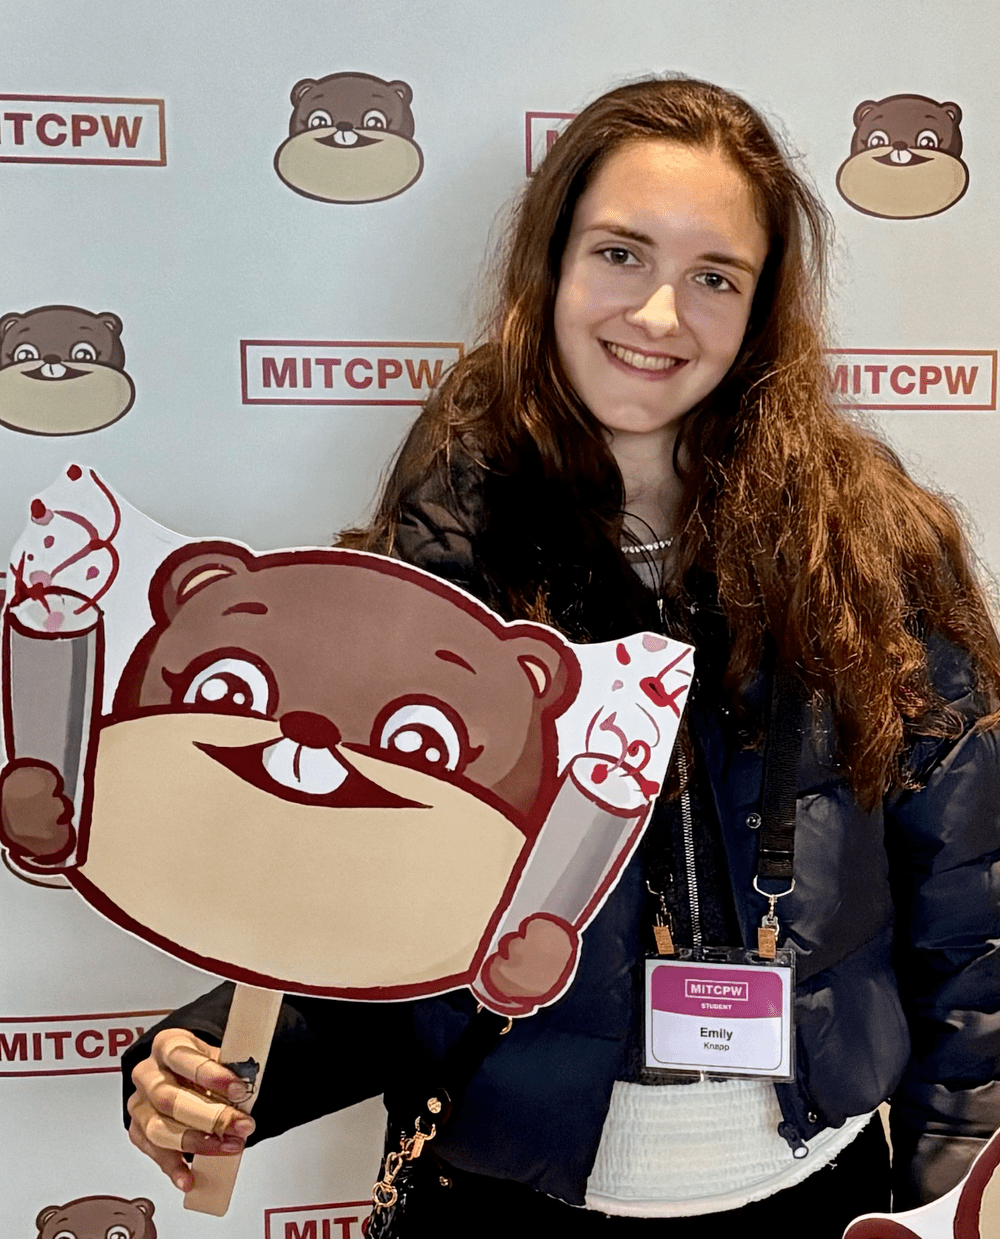
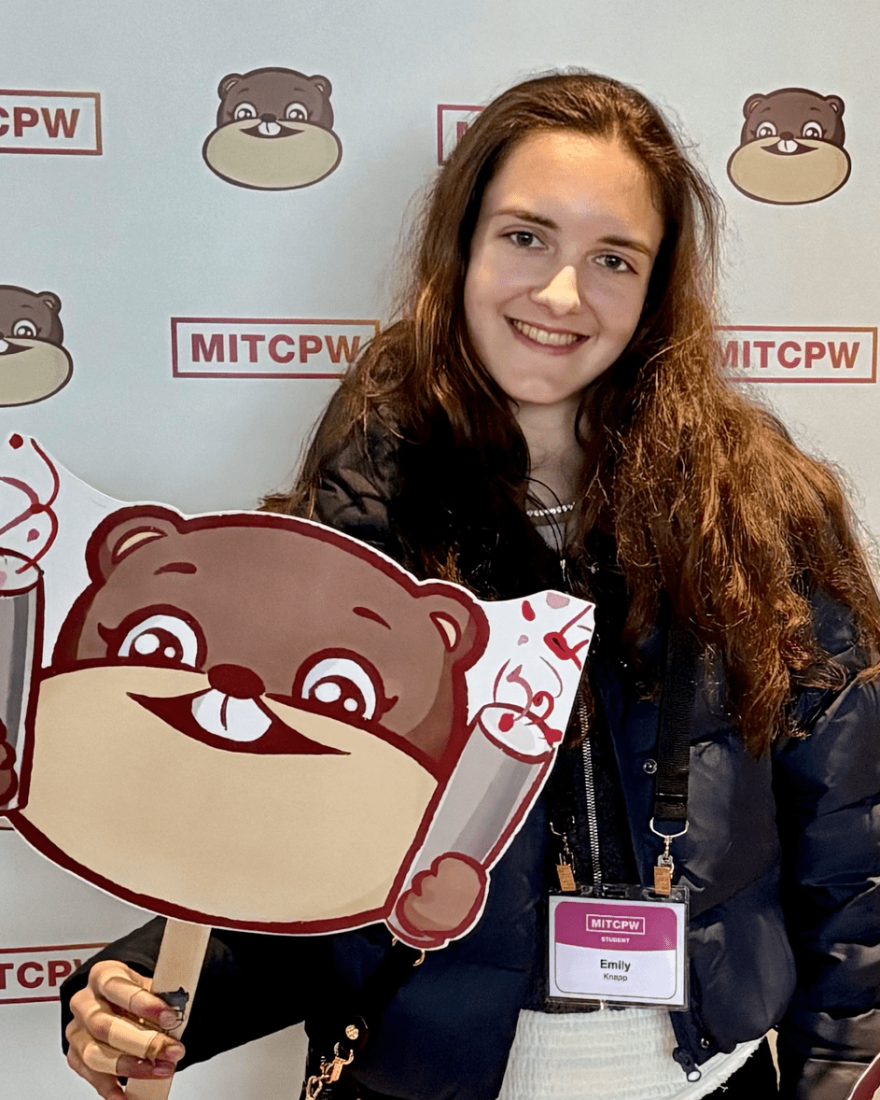
Centre every mentor photo on one portrait card shape
Each photo carried its own crop ratio from Squarespace (107% to 145% tall),
so cards were different heights and subjects sat at different spots. Detect
the face in each photo, crop around it to a consistent head-and-shoulders
4:5 frame, and give every card the same shape.

diff --git a/mentors.html b/mentors.html
@@ -75,41 +75,41 @@
 </div>
 <div class="row">
 <div class="col" style="--w:33.33%">
-<div class="block"><figure class="image-block layout-hover" style="max-width:750px"><div class="img-frame" style="aspect-ratio:100/144.595"><img alt="" height="1344" loading="lazy" src="assets/img/mentors/bio-pic-kevin-santiago.jpg" style="object-position:50% 50%" width="750"/></div><figcaption class="caption-hover"><p>Hi!! My name is Kevin, and I'm a junior from southeastern Massachusetts majoring in Computer Science. In my free time I enjoy swimming, coding, watching movies (especially Marvel), and watching soccer. I also love traveling to new countries, and enjoy the beach.</p></figcaption></figure></div>
+<div class="block"><figure class="image-block layout-hover"><div class="img-frame" style="aspect-ratio:100/125"><img alt="" height="938" loading="lazy" src="assets/img/mentors/bio-pic-kevin-santiago.jpg" style="object-position:50% 50%" width="750"/></div><figcaption class="caption-hover"><p>Hi!! My name is Kevin, and I'm a junior from southeastern Massachusetts majoring in Computer Science. In my free time I enjoy swimming, coding, watching movies (especially Marvel), and watching soccer. I also love traveling to new countries, and enjoy the beach.</p></figcaption></figure></div>
 <div class="block html-block">
 <h3 class="text-center">Kevin Santiago</h3>
 <p class="text-center">Executive Director</p>
 </div>
-<div class="block"><figure class="image-block layout-hover"><div class="img-frame" style="aspect-ratio:100/131.757"><img alt="" height="6000" loading="lazy" src="assets/img/mentors/dsc02087-lucy-teng.jpg" style="object-position:50% 50%" width="4000"/></div><figcaption class="caption-hover"><p>Hello! I’m Lucy, a freshman from Louisville, KY wanting to study biology at MIT. I am a swimming and academic mentor for Amphibz. Outside of Amphibz, I love to swim, run, hike, and bake!</p></figcaption></figure></div>
+<div class="block"><figure class="image-block layout-hover"><div class="img-frame" style="aspect-ratio:100/125"><img alt="" height="1031" loading="lazy" src="assets/img/mentors/dsc02087-lucy-teng.jpg" style="object-position:50% 50%" width="825"/></div><figcaption class="caption-hover"><p>Hello! I’m Lucy, a freshman from Louisville, KY wanting to study biology at MIT. I am a swimming and academic mentor for Amphibz. Outside of Amphibz, I love to swim, run, hike, and bake!</p></figcaption></figure></div>
 <div class="block html-block">
 <h3 class="text-center">LUCY TENG</h3>
 <p class="text-center">Achiever Relations Director</p>
 </div>
-<div class="block"><figure class="image-block layout-hover" style="max-width:974px"><div class="img-frame" style="aspect-ratio:100/127.365"><img alt="" height="1146" loading="lazy" src="assets/img/mentors/screenshot-2024-10-13-at-2-24-30-am.png" style="object-position:50% 50%" width="974"/></div><figcaption class="caption-hover"><p>Hello! My name is Cindy and I'm a sophomore majoring in EE. I'm from San Antonio, Texas, and I'm really looking forward to being a part of Amphibz. In my free time, I enjoy papercrafting, playing badminton, and browsing eBay.</p></figcaption></figure></div>
+<div class="block"><figure class="image-block layout-hover"><div class="img-frame" style="aspect-ratio:100/125"><img alt="" height="746" loading="lazy" src="assets/img/mentors/screenshot-2024-10-13-at-2-24-30-am.png" style="object-position:50% 50%" width="597"/></div><figcaption class="caption-hover"><p>Hello! My name is Cindy and I'm a sophomore majoring in EE. I'm from San Antonio, Texas, and I'm really looking forward to being a part of Amphibz. In my free time, I enjoy papercrafting, playing badminton, and browsing eBay.</p></figcaption></figure></div>
 <div class="block html-block">
 <h3 class="text-center">Cindy Li</h3>
 <p class="text-center">External Relations Director</p>
 </div>
 </div>
 <div class="col" style="--w:33.33%">
-<div class="block"><figure class="image-block layout-hover" style="max-width:835px"><div class="img-frame" style="aspect-ratio:100/143.581"><img alt="" height="1809" loading="lazy" src="assets/img/mentors/jay.jpg" style="object-position:50% 50%" width="835"/></div><figcaption class="caption-hover"><p>Hello there! My name is Jay Bhan, and I'm a junior at MIT from the Bay Area in California. I'm thinking of majoring in 6-4 and 18. Outside of classes, I enjoy chatting with friends, trying new foods, playing games (Codenames, anyone?), and watching movies!</p></figcaption></figure></div>
+<div class="block"><figure class="image-block layout-hover"><div class="img-frame" style="aspect-ratio:100/125"><img alt="" height="1044" loading="lazy" src="assets/img/mentors/jay.jpg" style="object-position:50% 50%" width="835"/></div><figcaption class="caption-hover"><p>Hello there! My name is Jay Bhan, and I'm a junior at MIT from the Bay Area in California. I'm thinking of majoring in 6-4 and 18. Outside of classes, I enjoy chatting with friends, trying new foods, playing games (Codenames, anyone?), and watching movies!</p></figcaption></figure></div>
 <div class="block html-block">
 <h3 class="text-center">Jay Bhan</h3>
 <p class="text-center">Executive Director</p>
 </div>
-<div class="block"><figure class="image-block layout-hover"><div class="img-frame" style="aspect-ratio:100/133.333"><img alt="" height="1000" loading="lazy" src="assets/img/mentors/alvan-liu.jpg" style="object-position:50% 50%" width="750"/></div><figcaption class="caption-hover"><p>Hey! I am Alvan a current Sophomore from Texas studying Chemical Biological Engineering (10B). Outside of Amphibz, I play tennis, make rugs, and also help run dynaMIT and the Edgerton Student Makerspace.</p></figcaption></figure></div>
+<div class="block"><figure class="image-block layout-hover"><div class="img-frame" style="aspect-ratio:100/125"><img alt="" height="938" loading="lazy" src="assets/img/mentors/alvan-liu.jpg" style="object-position:50% 50%" width="750"/></div><figcaption class="caption-hover"><p>Hey! I am Alvan a current Sophomore from Texas studying Chemical Biological Engineering (10B). Outside of Amphibz, I play tennis, make rugs, and also help run dynaMIT and the Edgerton Student Makerspace.</p></figcaption></figure></div>
 <div class="block html-block">
 <h3 class="text-center">Alvan Liu</h3>
 <p class="text-center">Session Planning Director</p>
 </div>
 </div>
 <div class="col" style="--w:33.33%">
-<div class="block"><figure class="image-block layout-hover"><div class="img-frame" style="aspect-ratio:100/128.378"><img alt="" height="1535" loading="lazy" src="assets/img/mentors/michael-turmilov-michael-turmilov.jpg" style="object-position:50% 50%" width="1328"/></div><figcaption class="caption-hover"><p>Hello! My name is Michael Turmilov, and I am a sophomore from Dallas, TX. I am majoring in Course 7 (Biology) and am on the MIT Varsity Swim Team. Outside of Amphibious Achievement, I am involved in the Biology Undergraduate Student Association and enjoy sailing and snowboarding in my free time.</p></figcaption></figure></div>
+<div class="block"><figure class="image-block layout-hover"><div class="img-frame" style="aspect-ratio:100/125"><img alt="" height="548" loading="lazy" src="assets/img/mentors/michael-turmilov-michael-turmilov.jpg" style="object-position:50% 50%" width="438"/></div><figcaption class="caption-hover"><p>Hello! My name is Michael Turmilov, and I am a sophomore from Dallas, TX. I am majoring in Course 7 (Biology) and am on the MIT Varsity Swim Team. Outside of Amphibious Achievement, I am involved in the Biology Undergraduate Student Association and enjoy sailing and snowboarding in my free time.</p></figcaption></figure></div>
 <div class="block html-block">
 <h3 class="text-center">Michael Turmilov</h3>
 <p class="text-center">Director of Campus Relations</p>
 </div>
-<div class="block"><figure class="image-block layout-hover" style="max-width:473px"><div class="img-frame" style="aspect-ratio:100/133.108"><img alt="" height="841" loading="lazy" src="assets/img/mentors/headshot-laura-liu.jpg" style="object-position:50% 50%" width="473"/></div><figcaption class="caption-hover"><p>Hi, I'm Laura, a sophomore at MIT. I like all interesting topics! In my free time, I like folding origami (especially the modular kind), watching anime, or reading manga/hwas. I'm also a huge music-lover, and I play piano for MIT's video game orchestra!</p></figcaption></figure></div>
+<div class="block"><figure class="image-block layout-hover"><div class="img-frame" style="aspect-ratio:100/125"><img alt="" height="591" loading="lazy" src="assets/img/mentors/headshot-laura-liu.jpg" style="object-position:50% 50%" width="473"/></div><figcaption class="caption-hover"><p>Hi, I'm Laura, a sophomore at MIT. I like all interesting topics! In my free time, I like folding origami (especially the modular kind), watching anime, or reading manga/hwas. I'm also a huge music-lover, and I play piano for MIT's video game orchestra!</p></figcaption></figure></div>
 <div class="block html-block">
 <h3 class="text-center">laura liu</h3>
 <p class="text-center">Treasurer</p>
@@ -122,46 +122,46 @@
 </div>
 <div class="row">
 <div class="col" style="--w:33.33%">
-<div class="block"><figure class="image-block layout-hover" style="max-width:960px"><div class="img-frame" style="aspect-ratio:100/143.243"><img alt="" height="1280" loading="lazy" src="assets/img/mentors/img-6139-ella-roberson-large.jpg" style="object-position:50% 50%" width="960"/></div><figcaption class="caption-hover"><p>Hi! I'm Ella, a junior from Midland, MI majoring in Computation and Cognition (course 6-9). Outside of Amphibious Achievement, I'm also on the MIT Swim &amp; Dive Team and Brain &amp; Cognitive Sciences Society. In my free time, I enjoy hanging out with friends, listening to music and watching Marvel movies!</p></figcaption></figure></div>
+<div class="block"><figure class="image-block layout-hover"><div class="img-frame" style="aspect-ratio:100/125"><img alt="" height="953" loading="lazy" src="assets/img/mentors/img-6139-ella-roberson-large.jpg" style="object-position:50% 50%" width="763"/></div><figcaption class="caption-hover"><p>Hi! I'm Ella, a junior from Midland, MI majoring in Computation and Cognition (course 6-9). Outside of Amphibious Achievement, I'm also on the MIT Swim &amp; Dive Team and Brain &amp; Cognitive Sciences Society. In my free time, I enjoy hanging out with friends, listening to music and watching Marvel movies!</p></figcaption></figure></div>
 <div class="block html-block">
 <h3 class="text-center">Ella roberson</h3>
 <p class="text-center">Mentor</p>
 </div>
-<div class="block"><figure class="image-block layout-hover"><div class="img-frame" style="aspect-ratio:100/139.860"><img alt="" height="1000" loading="lazy" src="assets/img/mentors/reginald-mohammed.jpg" style="object-position:50% 50%" width="715"/></div><figcaption class="caption-hover"><p>Hi! My name is Reginald and I'm a first-year student at MIT, planning to major in electrical engineering or materials science. I'm from Trinidad and Tobago, and I enjoy hiking, football, volleyball, and playing the violin.</p></figcaption></figure></div>
+<div class="block"><figure class="image-block layout-hover"><div class="img-frame" style="aspect-ratio:100/125"><img alt="" height="893" loading="lazy" src="assets/img/mentors/reginald-mohammed.jpg" style="object-position:50% 50%" width="715"/></div><figcaption class="caption-hover"><p>Hi! My name is Reginald and I'm a first-year student at MIT, planning to major in electrical engineering or materials science. I'm from Trinidad and Tobago, and I enjoy hiking, football, volleyball, and playing the violin.</p></figcaption></figure></div>
 <div class="block html-block">
 <h3 class="text-center">Reginald Mohammed</h3>
 <p class="text-center">Mentor</p>
 </div>
-<div class="block"><figure class="image-block layout-hover"><div class="img-frame" style="aspect-ratio:100/144.092"><img alt="" height="1000" loading="lazy" src="assets/img/mentors/jany-zhang.jpg" style="object-position:50% 50%" width="694"/></div><figcaption class="caption-hover"><p>Hi, I'm Jany!!! I'm from Indiana, and I'm planning to major in neuroscience with a pre-med focus at MIT. Outside of Amphibz, I like to binge watch TV shows, go on walks, and hang out with friends.</p></figcaption></figure></div>
+<div class="block"><figure class="image-block layout-hover"><div class="img-frame" style="aspect-ratio:100/125"><img alt="" height="868" loading="lazy" src="assets/img/mentors/jany-zhang.jpg" style="object-position:50% 50%" width="694"/></div><figcaption class="caption-hover"><p>Hi, I'm Jany!!! I'm from Indiana, and I'm planning to major in neuroscience with a pre-med focus at MIT. Outside of Amphibz, I like to binge watch TV shows, go on walks, and hang out with friends.</p></figcaption></figure></div>
 <div class="block html-block">
 <h3 class="text-center">Jany Zhang</h3>
 <p class="text-center">Mentor</p>
 </div>
 </div>
 <div class="col" style="--w:33.33%">
-<div class="block"><figure class="image-block layout-hover"><div class="img-frame" style="aspect-ratio:100/132.770"><img alt="" height="1826" loading="lazy" src="assets/img/mentors/screenshot-2025-03-06-at-8-32-07-pm.png" style="object-position:50% 50%" width="1474"/></div><figcaption class="caption-hover"><p>Hi, I’m Emily! I’m a sophomore from NYC majoring in math with CS and chemistry. I’m on the lightweight rowing team (go tech) !!! When I am not studying or rowing, I like discovering new cafes with my friends and listening to music. I also volunteer at the MIT puppy lab on Fridays 12-1 so you should pull up and chill with me and the pups :)</p></figcaption></figure></div>
+<div class="block"><figure class="image-block layout-hover"><div class="img-frame" style="aspect-ratio:100/125"><img alt="" height="1100" loading="lazy" src="assets/img/mentors/screenshot-2025-03-06-at-8-32-07-pm.png" style="object-position:50% 50%" width="880"/></div><figcaption class="caption-hover"><p>Hi, I’m Emily! I’m a sophomore from NYC majoring in math with CS and chemistry. I’m on the lightweight rowing team (go tech) !!! When I am not studying or rowing, I like discovering new cafes with my friends and listening to music. I also volunteer at the MIT puppy lab on Fridays 12-1 so you should pull up and chill with me and the pups :)</p></figcaption></figure></div>
 <div class="block html-block">
 <h3 class="text-center">Emily Knapp</h3>
 <p class="text-center">Mentor</p>
 </div>
-<div class="block"><figure class="image-block layout-hover"><div class="img-frame" style="aspect-ratio:100/130.548"><img alt="" height="1000" loading="lazy" src="assets/img/mentors/rachael.jpg" style="object-position:50% 50%" width="766"/></div><figcaption class="caption-hover"><p>Hi! I'm Rachael, a freshman from Belmont, MA. I'm thinking of majoring in Biology (Course 7). Outside of Amphibious Achievement, I'm also on staff of The Tech, MIT's newspaper, and a member of the Muses, an acapella group. In my free time, I enjoy reading, digital art, dance, and listening to music.</p></figcaption></figure></div>
+<div class="block"><figure class="image-block layout-hover"><div class="img-frame" style="aspect-ratio:100/125"><img alt="" height="598" loading="lazy" src="assets/img/mentors/rachael.jpg" style="object-position:50% 50%" width="478"/></div><figcaption class="caption-hover"><p>Hi! I'm Rachael, a freshman from Belmont, MA. I'm thinking of majoring in Biology (Course 7). Outside of Amphibious Achievement, I'm also on staff of The Tech, MIT's newspaper, and a member of the Muses, an acapella group. In my free time, I enjoy reading, digital art, dance, and listening to music.</p></figcaption></figure></div>
 <div class="block html-block">
 <h3 class="text-center">Rachael Wang</h3>
 <p class="text-center">Mentor</p>
 </div>
-<div class="block"><figure class="image-block layout-hover"><div class="img-frame" style="aspect-ratio:100/107.527"><img alt="" height="1000" loading="lazy" src="assets/img/mentors/neha-sangani.jpg" style="object-position:50% 50%" width="930"/></div><figcaption class="caption-hover"><p>Hi! I'm Neha, a junior from Cleveland, OH studying biological engineering here at MIT. I will be an academic mentor for Amphibz! Outside of school, I love the ocean, hiking, and making smoothie bowls.</p></figcaption></figure></div>
+<div class="block"><figure class="image-block layout-hover"><div class="img-frame" style="aspect-ratio:100/125"><img alt="" height="1000" loading="lazy" src="assets/img/mentors/neha-sangani.jpg" style="object-position:50% 50%" width="800"/></div><figcaption class="caption-hover"><p>Hi! I'm Neha, a junior from Cleveland, OH studying biological engineering here at MIT. I will be an academic mentor for Amphibz! Outside of school, I love the ocean, hiking, and making smoothie bowls.</p></figcaption></figure></div>
 <div class="block html-block">
 <h3 class="text-center">Neha Sangani</h3>
 <p class="text-center">Mentor</p>
 </div>
 </div>
 <div class="col" style="--w:33.33%">
-<div class="block"><figure class="image-block layout-hover" style="max-width:678px"><div class="img-frame" style="aspect-ratio:100/130.743"><img alt="" height="790" loading="lazy" src="assets/img/mentors/image0000-adam-gilbert-diamond.jpg" style="object-position:50% 50%" width="678"/></div><figcaption class="caption-hover"><p>Hello! I'm Adam and I'm from New Hampshire! I am studying math and computer science at MIT. I am on the heavyweight varsity crew team. Outside of school, I enjoy baking and listening to podcasts, so please come to me for recipe and podcast recommendations!</p></figcaption></figure></div>
+<div class="block"><figure class="image-block layout-hover"><div class="img-frame" style="aspect-ratio:100/125"><img alt="" height="790" loading="lazy" src="assets/img/mentors/image0000-adam-gilbert-diamond.jpg" style="object-position:50% 50%" width="632"/></div><figcaption class="caption-hover"><p>Hello! I'm Adam and I'm from New Hampshire! I am studying math and computer science at MIT. I am on the heavyweight varsity crew team. Outside of school, I enjoy baking and listening to podcasts, so please come to me for recipe and podcast recommendations!</p></figcaption></figure></div>
 <div class="block html-block">
 <h3 class="text-center">Adam Gilbert-Diamond</h3>
 <p class="text-center">Mentor</p>
 </div>
-<div class="block"><figure class="image-block layout-hover"><div class="img-frame" style="aspect-ratio:100/133.511"><img alt="" height="1000" loading="lazy" src="assets/img/mentors/sharifah-farah.jpg" style="object-position:50% 50%" width="749"/></div><figcaption class="caption-hover"><p>Hi! My name is Sharifah and I'm a freshman from Timonium, Maryland. I plan on majoring in Course 20 (Biological Engineering). Outside of school, I enjoy playing trivia, card games, drawing, and taking long walks!</p></figcaption></figure></div>
+<div class="block"><figure class="image-block layout-hover"><div class="img-frame" style="aspect-ratio:100/125"><img alt="" height="937" loading="lazy" src="assets/img/mentors/sharifah-farah.jpg" style="object-position:50% 50%" width="749"/></div><figcaption class="caption-hover"><p>Hi! My name is Sharifah and I'm a freshman from Timonium, Maryland. I plan on majoring in Course 20 (Biological Engineering). Outside of school, I enjoy playing trivia, card games, drawing, and taking long walks!</p></figcaption></figure></div>
 <div class="block html-block">
 <h3 class="text-center">Sharifah Farah</h3>
 <p class="text-center">Mentor</p>
